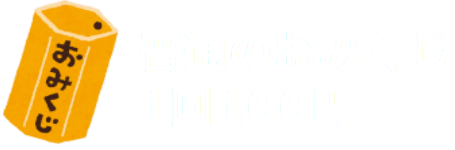
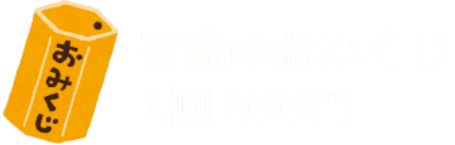
change

diff --git a/index.html b/index.html
@@ -158,9 +158,9 @@
       <ons-button modifier="large" id="square">御神籤を引く(1回100円)</ons-button>
 -->
 　
-        <ons-button modifier="large" id="square"><img src="lib/image/omikuji1.png" width=85% height=85% /></ons-button>
+        <ons-button modifier="large" id="square"><img src="lib/image/omikuji1.png" width=75% height=75% /></ons-button>
 　
-        <ons-button modifier="large" id="omikuji11"><img src="lib/image/omikuji11.png" width=85% height=85% /></ons-button>
+        <ons-button modifier="large" id="omikuji11"><img src="lib/image/omikuji11.png" width=75% height=75% /></ons-button>
 　
         <ons-button modifier="large" id="omikuji">お布施を納める(test)</ons-button>
 <!--
